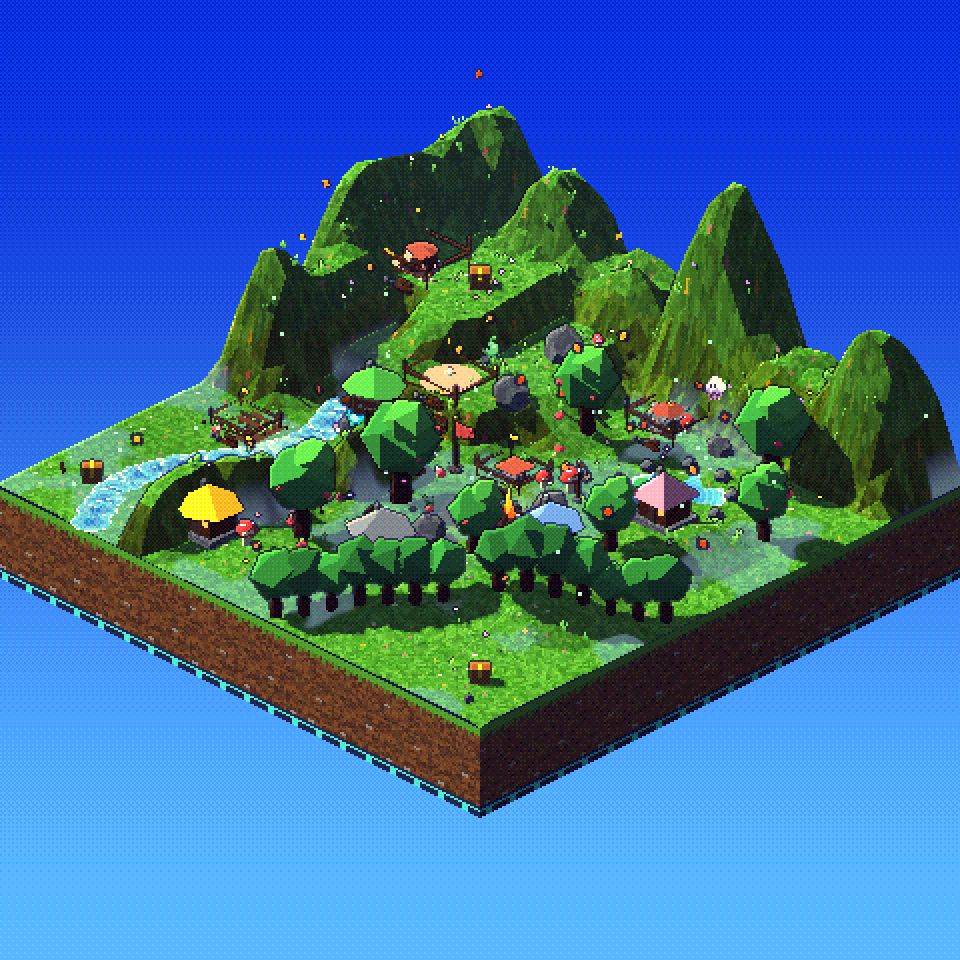
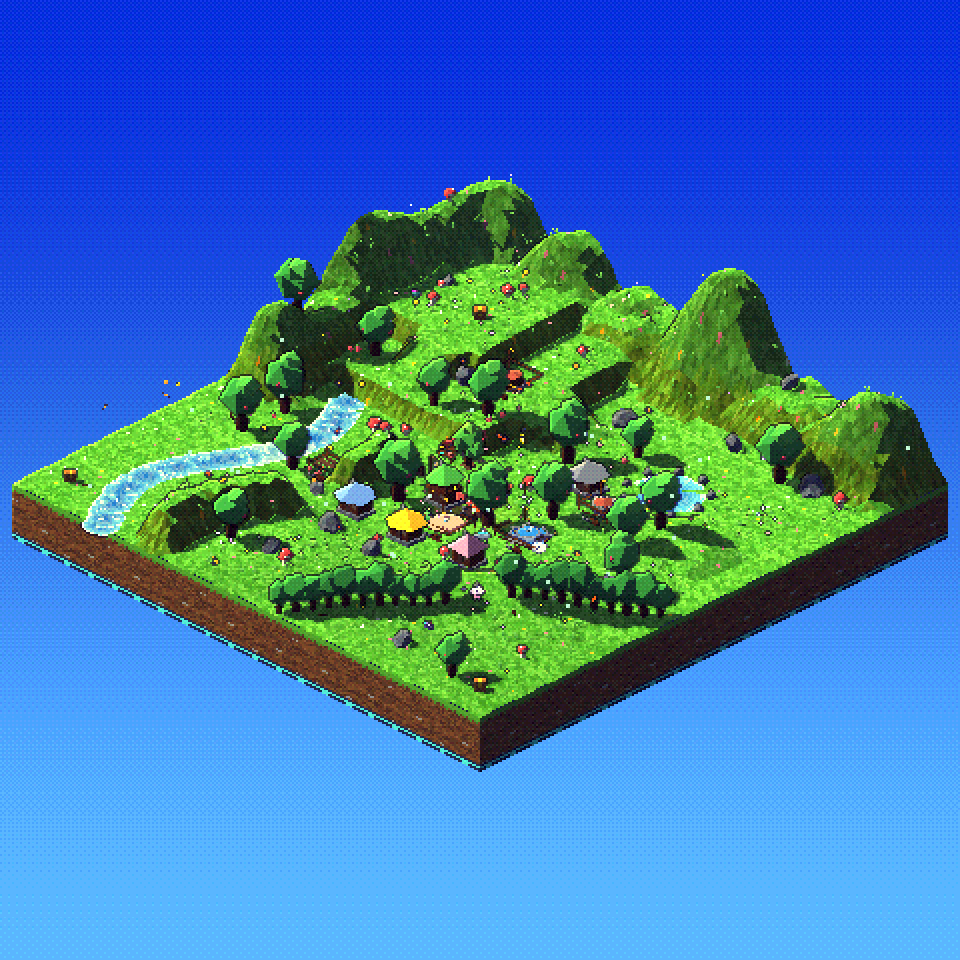
島を広く（32 → かいたくで 40・48）・村を建てる平らな場所を広く
- 箱庭の広さを 20/26/32 から 32/40/48 に
- 森の地形は 20 マスの島を元に、広さに合わせて ひろげて置く。まんなかの平らな村の場所を広く
- 家・建物・置き物（freePos）は 急な坂を えらばない
- ピンチで引ける量を 島の広さに合わせて大きく

Claude-Session: https://claude.ai/code/session_0123UptJxvfEXsQxns9cL3Y3

diff --git a/src/world/stages.ts b/src/world/stages.ts
@@ -10,10 +10,10 @@ import { STAGES2 } from './stages2'
  * オリジナルのステージ 5 種。どれも「デジタル空間に浮かぶ四角い箱庭」。
  * 地形・小物はローポリ + Gouraud（頂点ライティング）+ Nearest テクスチャで PS1 風に。
  */
-export let SIZE = 20
+export let SIZE = 32
 export let HALF = SIZE / 2 - 0.8
 /** 箱庭の広さ（かいたくで ひろがる）。ステージを作り直す前に呼ぶ */
-export const LAND_SIZES = [20, 26, 32]
+export const LAND_SIZES = [32, 40, 48]
 export function setLandSize(n: number) {
   SIZE = n
   HALF = n / 2 - 0.8
@@ -291,14 +291,18 @@ function chestModel() {
 // 1. はじまりの森（Seed Grove）
 // =====================================================================
 function seedGrove(): Stage {
-  const spring = { x: 4.5, z: -3.5, r: 1.6 }
+  // 地形は 20 マスの島を元に作り、広さに合わせて ひろげる（k = 広さ / 20。u() = 島の上の位置 → 元の 20 マスの位置）
+  const k = SIZE / 20
+  const HU = HALF / k
+  const spring = { x: 4.5 * k, z: -3.5 * k, r: 1.6 * Math.sqrt(k) }
   // 入り組んだ地形（計画 D の見本）：北西の高台（まわりは崖・東の坂だけ のぼれる）/ 高台のふもとから南へ流れる川（まんなかに浅瀬）/ 南東の深い森の帯
   // 入り組んだ地形（計画 D の見本）：
   //  奥（北と西のふち）= のぼれない山なみ / 北西 = 2 段の高台（東の坂 → 南の坂の つづら折り）
   //  西 = くねる岩の壁（まんなかに切り通し 1 つ）と、その西の谷を 蛇行する川（浅瀬 1 つ）/ 手前 = なだらかな丘
-  const B = -HALF + 2.8 // 山なみの内がわの線
-  const borderDrop = (x: number, z: number) => smooth(SIZE / 2, SIZE / 2 - 0.7, Math.max(Math.abs(x), Math.abs(z)))
+  const B = -HU + 2.8 // 山なみの内がわの線
+  const borderDrop = (x: number, z: number) => smooth(SIZE / 2, SIZE / 2 - 0.7 * k, Math.max(Math.abs(x), Math.abs(z)) * k)
   const mountains = (x: number, z: number) => {
+    // x, z は元の 20 マスの位置
     const north = smooth(B, B - 2.0, z)
     const west = smooth(B, B - 2.0, x) * smooth(1.6, -0.4, z)
     const m = Math.max(north, west)
@@ -322,16 +326,19 @@ function seedGrove(): Stage {
     const gap = smooth(0.0, 0.5, Math.abs(z - 4.2) - 0.6)
     return 1.8 * smooth(0.8, 0.32, Math.abs(x - wallX(z))) * gap * smooth(0, 1.2, z) * borderDrop(x, z)
   }
-  const riverX = (z: number) => -6.4 + Math.sin(z * 0.6 + 0.5) * 1.0
+  const riverXu = (z: number) => -6.4 + Math.sin(z * 0.6 + 0.5) * 1.0
+  const riverX = (z: number) => riverXu(z / k) * k
   const RIVER_Z0 = -0.6
   const FORD_Z = 3.0
-  const river = (x: number, z: number) => (z < RIVER_Z0 ? 0 : smooth(0.95, 0.45, Math.abs(x - riverX(z))))
-  const heightAt = (x: number, z: number) => {
-    let h = 0.25 + (Math.sin(x * 0.42) * Math.cos(z * 0.36) * 0.25 + mounds(x, z, [[5.6, 4.2, 2.6, 1.2], [2.2, 7.2, 2.2, 0.9], [7.2, -1.2, 2.0, 0.8]])) * edge(x, z)
-    const ds = Math.hypot(x - spring.x, z - spring.z)
+  const river = (x: number, z: number) => (z < RIVER_Z0 ? 0 : smooth(0.95, 0.45, Math.abs(x - riverXu(z))))
+  const heightAt = (wx: number, wz: number) => {
+    const x = wx / k
+    const z = wz / k
+    let h = 0.25 + (Math.sin(x * 0.42) * Math.cos(z * 0.36) * 0.25 + mounds(x, z, [[5.6, 4.2, 2.6, 1.2], [2.2, 7.2, 2.2, 0.9], [7.2, -1.2, 2.0, 0.8]])) * edge(wx, wz)
+    const ds = Math.hypot(wx - spring.x, wz - spring.z)
     h = THREE.MathUtils.lerp(0.24, h, smooth(spring.r, spring.r + 1.2, ds))
-    // 村を建てる まんなかは 平らに
-    h = THREE.MathUtils.lerp(0.3, h, smooth(2.6, 4.2, Math.hypot(x - 1.5, z - 0.5)))
+    // 村を建てる まんなかは 広く平らに
+    h = THREE.MathUtils.lerp(0.3, h, smooth(3.4, 5.4, Math.hypot(x - 1.5, z - 0.5)))
     h += terraces(x, z) * borderDrop(x, z)
     h = Math.max(h, mountains(x, z) + 0.25)
     h += wall(x, z)
@@ -346,26 +353,31 @@ function seedGrove(): Stage {
   // 川：水の円を ならべる（浅瀬の所は 通れる）。見た目は 水面の円を重ねる
   const riverMat = waterSurface({ deep: '#2a86c8', shallow: '#7fe0f0', rings: true })
   const fordMat = waterSurface({ deep: '#6fc8d8', shallow: '#c8f4f0', rings: true })
-  for (let z = RIVER_Z0; z <= HALF + 0.6; z += 0.6) {
+  for (let zu = RIVER_Z0; zu <= HU + 0.6; zu += 0.6 / k) {
+    const z = zu * k
     const x = riverX(z)
-    const ford = Math.abs(z - FORD_Z) < 0.8
-    const disk = new THREE.Mesh(new THREE.CircleGeometry(0.62, 8).rotateX(-Math.PI / 2), ford ? fordMat : riverMat)
+    const ford = Math.abs(zu - FORD_Z) < 0.8
+    const disk = new THREE.Mesh(new THREE.CircleGeometry(0.62 * k, 10).rotateX(-Math.PI / 2), ford ? fordMat : riverMat)
     disk.position.set(x, heightAt(x, z) + 0.05, z)
     group.add(disk)
-    if (!ford) obstacles.push({ x, z, r: 0.5, water: true })
+    if (!ford) obstacles.push({ x, z, r: 0.5 * k, water: true })
   }
   // 深い森の帯（南東）：木を すきまなく ならべ、まんなかに 1 本だけ 小道
   const band: { x: number; z: number }[] = []
-  for (let t = 0; t <= 1.0001; t += 0.07) {
-    const x = THREE.MathUtils.lerp(1.2, HALF + 0.4, t)
-    const z = THREE.MathUtils.lerp(HALF + 0.4, 1.6, t)
-    if (Math.abs(t - 0.5) < 0.1) continue
+  const bandA = { x: 1.2 * k, z: HALF + 0.4 }
+  const bandB = { x: HALF + 0.4, z: 1.6 * k }
+  const bandLen = Math.hypot(bandB.x - bandA.x, bandB.z - bandA.z)
+  for (let t = 0; t <= 1.0001; t += 0.8 / bandLen) {
+    const x = THREE.MathUtils.lerp(bandA.x, bandB.x, t)
+    const z = THREE.MathUtils.lerp(bandA.z, bandB.z, t)
+    // まんなかに 小道（2 マスほど）
+    if (Math.abs(t - 0.5) * bandLen < 1.3) continue
     band.push({ x, z })
     obstacles.push({ x, z, r: 0.42 })
   }
   // たからばこ：高台のおく と 森の帯のむこう（行き止まりの ごほうび）
   const treasures: { x: number; z: number; mesh: THREE.Object3D }[] = []
-  for (const [tx, tz] of [[-5.2, -5.2], [HALF - 1.0, HALF - 1.0], [-HALF + 1.0, HALF - 1.4]]) {
+  for (const [tx, tz] of [[-5.2 * k, -5.2 * k], [HALF - 1.0, HALF - 1.0], [-HALF + 1.0, HALF - 1.4]]) {
     const ch = chestModel()
     ch.position.set(tx, heightAt(tx, tz), tz)
     ch.rotation.y = Math.PI * 0.25

diff --git a/src/world/parts/update.ts b/src/world/parts/update.ts
@@ -3,7 +3,7 @@ import * as THREE from 'three'
 import { RES } from '../psx'
 import { SpriteAnim } from '../sprites'
 import { SPECIES, enemyFor, type Face } from '../monsters'
-import { HALF, STAGES } from '../stages'
+import { HALF, SIZE, STAGES } from '../stages'
 import { STRUCTS } from '../structures'
 import { slidePath } from '../items'
 import { SHOP, catIndexes, catOf, shopTap } from '../shop'
@@ -954,7 +954,8 @@ export function updateCamera(this: World, dt: number) {
 
 /** ピンチ：f < 1 で寄る、f > 1 で引く */
 export function zoomBy(this: World, f: number) {
-  this.camZoom = THREE.MathUtils.clamp(this.camZoom * f, 0.45, 2.3)
+  // 島が広いほど 大きく引ける（島ぜんたいが見えるまで）
+  this.camZoom = THREE.MathUtils.clamp(this.camZoom * f, 0.45, 2.3 * Math.max(1, SIZE / 20))
 }
 
 /** 2 本指ドラッグ（画面の高さに対する割合） */
@@ -1068,6 +1069,9 @@ export function farPos(this: World, min: number) {
     const [x, z] = Math.random() < 0.5 ? [edge, along] : [along, edge]
     if (allies.some((a) => Math.hypot(a.x - x, a.z - z) < (a === this.pet ? min : min - 2))) continue
     if (this.obstacles().some((o) => Math.hypot(o.x - x, o.z - z) < o.r + 0.6)) continue
+    // 山・崖・壁の急な坂は えらばない（家や建物が平らな所に建つように。歩く先も）
+    const h = this.stage.heightAt
+    if (Math.max(Math.abs(h(x + 0.6, z) - h(x - 0.6, z)), Math.abs(h(x, z + 0.6) - h(x, z - 0.6))) > 0.45) continue
     return { x, z }
   }
   return this.freePos(min)
@@ -1079,6 +1083,9 @@ export function freePos(this: World, minFromPet: number, cx = 0, cz = 0, radius 
     const z = THREE.MathUtils.clamp(cz + (Math.random() * 2 - 1) * Math.min(radius, HALF), -HALF, HALF)
     if (this.pet && Math.hypot(x - this.pet.x, z - this.pet.z) < minFromPet) continue
     if (this.obstacles().some((o) => Math.hypot(o.x - x, o.z - z) < o.r + 0.6)) continue
+    // 山・崖・壁の急な坂は えらばない（家や建物が平らな所に建つように。歩く先も）
+    const h = this.stage.heightAt
+    if (Math.max(Math.abs(h(x + 0.6, z) - h(x - 0.6, z)), Math.abs(h(x, z + 0.6) - h(x, z - 0.6))) > 0.45) continue
     return { x, z }
   }
   return { x: 0, z: 0 }

diff --git a/src/world/shop.ts b/src/world/shop.ts
@@ -79,8 +79,8 @@ export const SHOP: ShopItem[] = [
   { id: 'bp-market', cat: 'plan', icon: 'market', name: 'せっけいず：いちば', price: 130, desc: 'むらレベル 1 から。しゅうにゅう UP、\nうりこが みせに たつ', plan: 'market' },
   { id: 'bp-fort', cat: 'plan', icon: 'fort', name: 'せっけいず：とりで', price: 150, desc: 'ちかくの なかまの こうげきが UP', plan: 'fort' },
 
-  { id: 'land1', cat: 'land', icon: 'land', name: 'かいたく ①', price: 250, desc: 'はこにわが 20 → 26 に ひろがる。\n家や たてもの・置き物は そのまま', land: 1 },
-  { id: 'land2', cat: 'land', icon: 'land', name: 'かいたく ②', price: 500, desc: 'はこにわが 26 → 32 に ひろがる。\nおおきな むらを つくれる', land: 2 },
+  { id: 'land1', cat: 'land', icon: 'land', name: 'かいたく ①', price: 250, desc: 'はこにわが 32 → 40 に ひろがる。\n家や たてもの・置き物は そのまま', land: 1 },
+  { id: 'land2', cat: 'land', icon: 'land', name: 'かいたく ②', price: 500, desc: 'はこにわが 40 → 48 に ひろがる。\nおおきな むらを つくれる', land: 2 },
 ]
 
 /** 買えるか？ と、買えない理由（色で見せる） */

diff --git a/CLAUDE.md b/CLAUDE.md
@@ -69,10 +69,10 @@ Three.js + TypeScript + Vite + vite-plugin-pwa。机の上に浮かぶ 3D の本
 - **役割分担**：`Creature.role`（だいく / はたけがかり / みはり）を `assignRoles()` が 15 秒ごとに、性格 `bias` と村に足りない物（はたけ・みはりとう・おしろ）で決める。だいくは建築の確率が高く現場を優先、はたけがかりは `tend` 状態で畑の実りを早め、みはりは持ち場（みはりとう・おしろ）を見まわり 7 マス先の敵まで追う。頭の上に色つきの点
 - **じゅみょう（なかま）**：なかまと野生のおとなしい子は 1 匹ずつ `c.age` / `c.life`（`FRIEND_LIFE` = 25〜35 分のばらつき、セーブにも入る）。`updateAge()` が 1 秒ごとに数え、`retireFriend()` で しずかに ねむりにつく（`retired` = 光の粒になって消える。なかまは 6 割で同じ系統の たまごを のこす）。留守の早送り中は `noAging` で止める。情報ウィンドウに じゅみょうのバー。進化も 1 秒ごとに `gainXp(c, 0)` で見直す（たたかい中にたまった分）。必要経験値 `XP_NEED` = 25 / 70 / 135（ペットは寿命の 1 割・3 割・6 割ほどで 2・3・4 だんめ）
 - **あそびかた・カメラ**（2026-11-12 の方針：放置・眺める系が主役）：せってい の「あそびかた」= のんびり（既定）/ にぎやか（`pulsar-mode` → `World.calm`）。のんびりは敵軍の自動呼び出し・野生の敵の襲撃と家こわし・ペットからのけんか・みはりの追いかけを止める。おねがい・もくひょう・うんだめしは「あそび ▸」（`#play-btn`、body の `play-open`）にまとめる。見た目はジオラマだけ（PS1 風の仕上げ `makePostMaterial` は外した。昔の見た目は `archive/ps1-style` ブランチ）。ワープのグリッチ・フラッシュ・ひのこの熱ゆらぎは ジオラマの仕上げの uniform（`World.post` = `diorama.post`）。画面の中のカメラ：1 本指ドラッグ = `World.panBy`（ジオラマは `freeLook` を自由に動かし `follow` を切る）、`setFollow` / `setAuto`（おまかせ：`mark()` した できごとの場所へ 9〜14 秒ごとに ゆっくり移る。45 秒さわらないと自動）、`rotateView`（90°、`DioramaLook.setYaw`）。ボタンは `#pad` の `.cam-bar`（左下）、キー F / O / Q / E
-- **入り組んだ地形（計画 D）**：はじまりの森が見本。奥（北と西のふち）に のぼれない山なみ、北西に 2 段の高台（東の坂 → 南の坂の つづら折り）、西に くねる岩の壁（切り通し 1 つ）と その西の谷を蛇行する川（浅瀬 1 つ）、手前に なだらかな丘、南東に深い森の帯（小道）。まんなかは村のために平ら。木や岩は `placer(…, heightAt)` で急な坂に置かない。行き止まりに たからばこ 3 つ（`Stage.treasures`、`updateTreasures()`：なかまが 1.35 マス以内に来ると あく・コイン・35% で たまご・8 分で中身がもどる。ひまな子は `wantTreasure()` で見に行く）。`terrain()` は面ごとの色（急な面は 低い所が地層のしま・高い所が岩はだ。テクスチャとかけ合わせるので明るめ）。モンスターの大きさは `CREATURE_SCALE`（0.7）
+- **入り組んだ地形（計画 D）**：はじまりの森が見本。奥（北と西のふち）に のぼれない山なみ、北西に 2 段の高台（東の坂 → 南の坂の つづら折り）、西に くねる岩の壁（切り通し 1 つ）と その西の谷を蛇行する川（浅瀬 1 つ）、手前に なだらかな丘、南東に深い森の帯（小道）。まんなかは村のために広く平ら。森の地形は 20 マスの島を元に作り、`k = SIZE / 20` 倍に ひろげて置く（かいたくしても つりあう）。`freePos()` は急な坂（±0.6 マスで高さの差 0.45 より大）を えらばない（家・建物・置き物は平らな所に建つ）。ピンチで引ける量は 島の広さに合わせて大きく。木や岩は `placer(…, heightAt)` で急な坂に置かない。行き止まりに たからばこ 3 つ（`Stage.treasures`、`updateTreasures()`：なかまが 1.35 マス以内に来ると あく・コイン・35% で たまご・8 分で中身がもどる。ひまな子は `wantTreasure()` で見に行く）。`terrain()` は面ごとの色（急な面は 低い所が地層のしま・高い所が岩はだ。テクスチャとかけ合わせるので明るめ）。モンスターの大きさは `CREATURE_SCALE`（0.7）
 - **はじめの敵**：ステージの敵は `farPos()`（ペットから 8 マス以上・島のはし）に置き、たおした敵の再出現も 7 マス以上はなす。新しいゲーム・ステージに入って `PEACE_TIME`（90 秒）は敵がおそわない（`peaceT`）。1 だんめ・こどもは 1.8 マス以内に来た時だけねらわれる。ペットから けんかを しかけるのは 2 だんめから
 - **世代交代**：ペットの `stats.petAge`（あそんだ秒）が `LIFESPAN`（40 分）に達すると `retirePet()` → おはか（`memorial`）→ `rebirth()` で同じ系統の赤ちゃんとして生まれ変わる（育ちの傾向は 3 割引きつぎ、代をかさねるほど強く、25% で突然変異）。`stats.gen` / `lineage` を保存。テストは `world.ageUp(分)`
-- **かいたく**：箱庭の広さは `LAND_SIZES = [20, 26, 32]`（`stages.ts` の `setLandSize()`）。ショップの「かいたく ①②」で `expandLand()`（ステージを作り直し、家・建物・置き物・たまごは残す）。小物の数は `dens()` で面積に比例。広さは全ステージ共通で `land` を保存
+- **かいたく**：箱庭の広さは `LAND_SIZES = [32, 40, 48]`（2026-11 に 20/26/32 から広げた）（`stages.ts` の `setLandSize()`）。ショップの「かいたく ①②」で `expandLand()`（ステージを作り直し、家・建物・置き物・たまごは残す）。小物の数は `dens()` で面積に比例。広さは全ステージ共通で `land` を保存
 - **ショップと置き物**：買えるか・理由は `shopCheck()`（色分けと同じ元）。買うと置き物は上から落ちてはずみ、コインが吸いこまれる（`placeItem` / `buyFx`）。置き物を足す時は `items.ts` の `ItemKind` / `ITEM_SPEC` / `ITEM_INFO` / モデル / `tickItem` と `shop.ts` の `SHOP`・アイコンを足し、効果を World.ts に書く。セーブは `isItemKind` と上限で検査。光源は画質「低」で作らない（`World.setQuality`）
 - **見た目の個体差と色ちがい**：`Creature.seed`（もよう・色のゆらぎ。`lookOf(seed)` で 0〜7 に量子化）と `Creature.rare`（色ちがい 約 3%、ふしぎなたまごは 8%）。スプライトは `sheetFor(id, variantOf(seed, rare))` で種族 × 16 種を生成時に 1 回だけ焼いてキャッシュ（もよう・色相ずらしは `decorate()` が描き終えた絵の「からだの色」の所にだけ重ねる。新しい種族を足したら `OLD_GEOM` / `FOE_GEOM` か `critter()` の Geom を返すだけで効く）。名前の前に ★、HUD に小さな ★、ずかんは `dexRare`（別記録・後方互換）。セーブは `seed` / `rare` / 卵の `lucky` / `dexRare`
 - **表情**：Pose の `eye` / `mouth` / `mark` で 12〜21 コマ（hungry / sleepy / glad / angry / worry）。`faceOf()` が止まっている時の状態から選ぶ。**進化**は `c.evo`（白いシルエット → ふくらむ → 新しい姿、約 1.8 秒。見えない・3D モデルはすぐ切りかえ）。**敵の亜種 6 種とボス 3 種**は `monsters.ts` の `enemyFor()`（ステージの敵に混ぜる）/ `armyMember()` / `armyBoss()`（敵軍の編成。3 回に 1 回ボス、HP バーは `drawBossBar()`）
